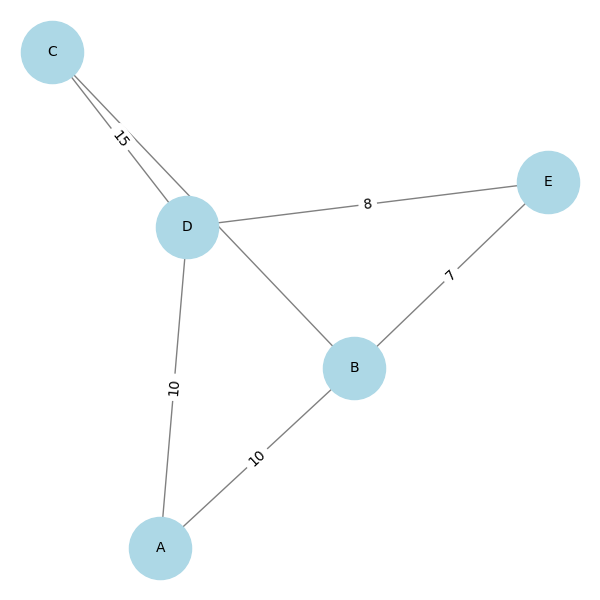
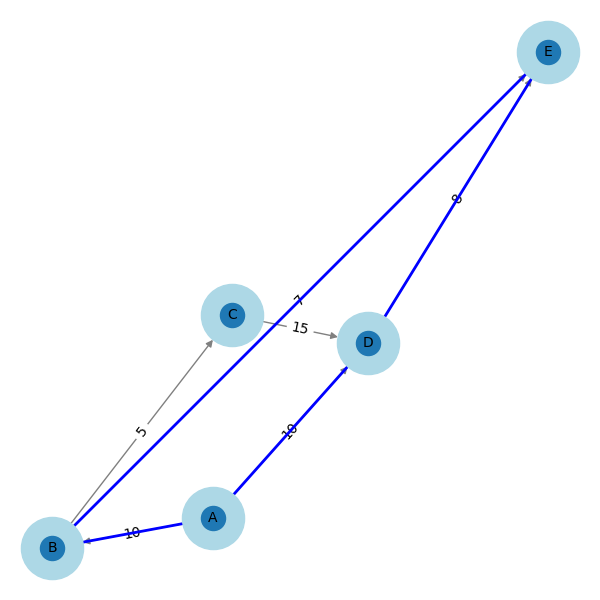
fix: :bug: grafica por color redes

diff --git a/redes/redes_api.py b/redes/redes_api.py
@@ -1,4 +1,4 @@
-from flask import Blueprint, request, jsonify, render_template, url_for
+from flask import Blueprint, request, render_template
 import networkx as nx
 import matplotlib.pyplot as plt
 import os
@@ -7,7 +7,32 @@ from datetime import datetime
 
 redes_bp = Blueprint('redes', __name__)
 
-# 📌 Ruta para manejar las solicitudes de la calculadora de redes
+def generar_grafico(G, resultado, operation):
+    """ Genera el gráfico resaltando la ruta calculada """
+    img_path = os.path.join("app", "static", "graphs", "network.png")
+    os.makedirs(os.path.dirname(img_path), exist_ok=True)
+    plt.figure(figsize=(6, 6))
+    pos = nx.spring_layout(G)
+    
+    # Dibujar el grafo base
+    nx.draw(G, pos, with_labels=True, node_color='lightblue', edge_color='gray', node_size=2000, font_size=10)
+    labels = nx.get_edge_attributes(G, 'weight')
+    nx.draw_networkx_edge_labels(G, pos, edge_labels=labels)
+    
+    # Resaltar el camino encontrado
+    if operation == "shortest_path" and 'path' in resultado:
+        path_edges = list(zip(resultado['path'], resultado['path'][1:]))
+        nx.draw(G, pos, edgelist=path_edges, edge_color='red', width=2)
+    elif operation == "max_flow" and 'flow_dict' in resultado:
+        flow_edges = [(u, v) for u in resultado['flow_dict'] for v in resultado['flow_dict'][u] if resultado['flow_dict'][u][v] > 0]
+        nx.draw(G, pos, edgelist=flow_edges, edge_color='blue', width=2)
+    elif operation == "mst" and 'mst_edges' in resultado:
+        mst_edges = [(u, v) for u, v, _ in resultado['mst_edges']]
+        nx.draw(G, pos, edgelist=mst_edges, edge_color='green', width=2)
+    
+    plt.savefig(img_path)
+    plt.close()
+
 @redes_bp.route('/redesb', methods=['GET', 'POST'])
 def redes():
     if request.method == 'POST':
@@ -16,23 +41,18 @@ def redes():
         source = request.form.get('source')
         sink = request.form.get('sink')
         operation = request.form.get('operation')
-
-        # 📌 Crear el grafo
+        
         G = nx.DiGraph() if operation == "max_flow" else nx.Graph()
-
-        # Agregar nodos
         node_list = [n.strip() for n in nodes.split(",")]
         G.add_nodes_from(node_list)
-
-        # Agregar conexiones
+        
         for edge in edges.split(";"):
             try:
                 n1, n2, weight = edge.split(",")
                 G.add_edge(n1.strip(), n2.strip(), weight=int(weight.strip()))
             except ValueError:
                 return "Error en el formato de conexiones.", 400
-
-        # 📌 Generar el resultado según la operación seleccionada
+        
         if operation == "max_flow":
             resultado = max_flow(nodes, edges, source, sink)
         elif operation == "shortest_path":
@@ -47,20 +67,8 @@ def redes():
             resultado = {"mst_edges": list(mst.edges(data=True))}
         else:
             return "Operación no válida", 400
-
-        # 📌 Generar y guardar el gráfico del grafo
-        img_path = os.path.join("app", "static", "graphs", "network.png")
-        os.makedirs(os.path.dirname(img_path), exist_ok=True)
-        plt.figure(figsize=(6, 6))
-
-        pos = nx.spring_layout(G)  # Posiciones de los nodos
-        nx.draw(G, pos, with_labels=True, node_color='lightblue', edge_color='gray', node_size=2000, font_size=10)
-        labels = nx.get_edge_attributes(G, 'weight')
-        nx.draw_networkx_edge_labels(G, pos, edge_labels=labels)
-
-        plt.savefig(img_path)
-        plt.close()
-
+        
+        generar_grafico(G, resultado, operation)
         return render_template("resultado_redes.html", resultado=resultado, now=datetime.now())
-
+    
     return render_template('redes.html')
